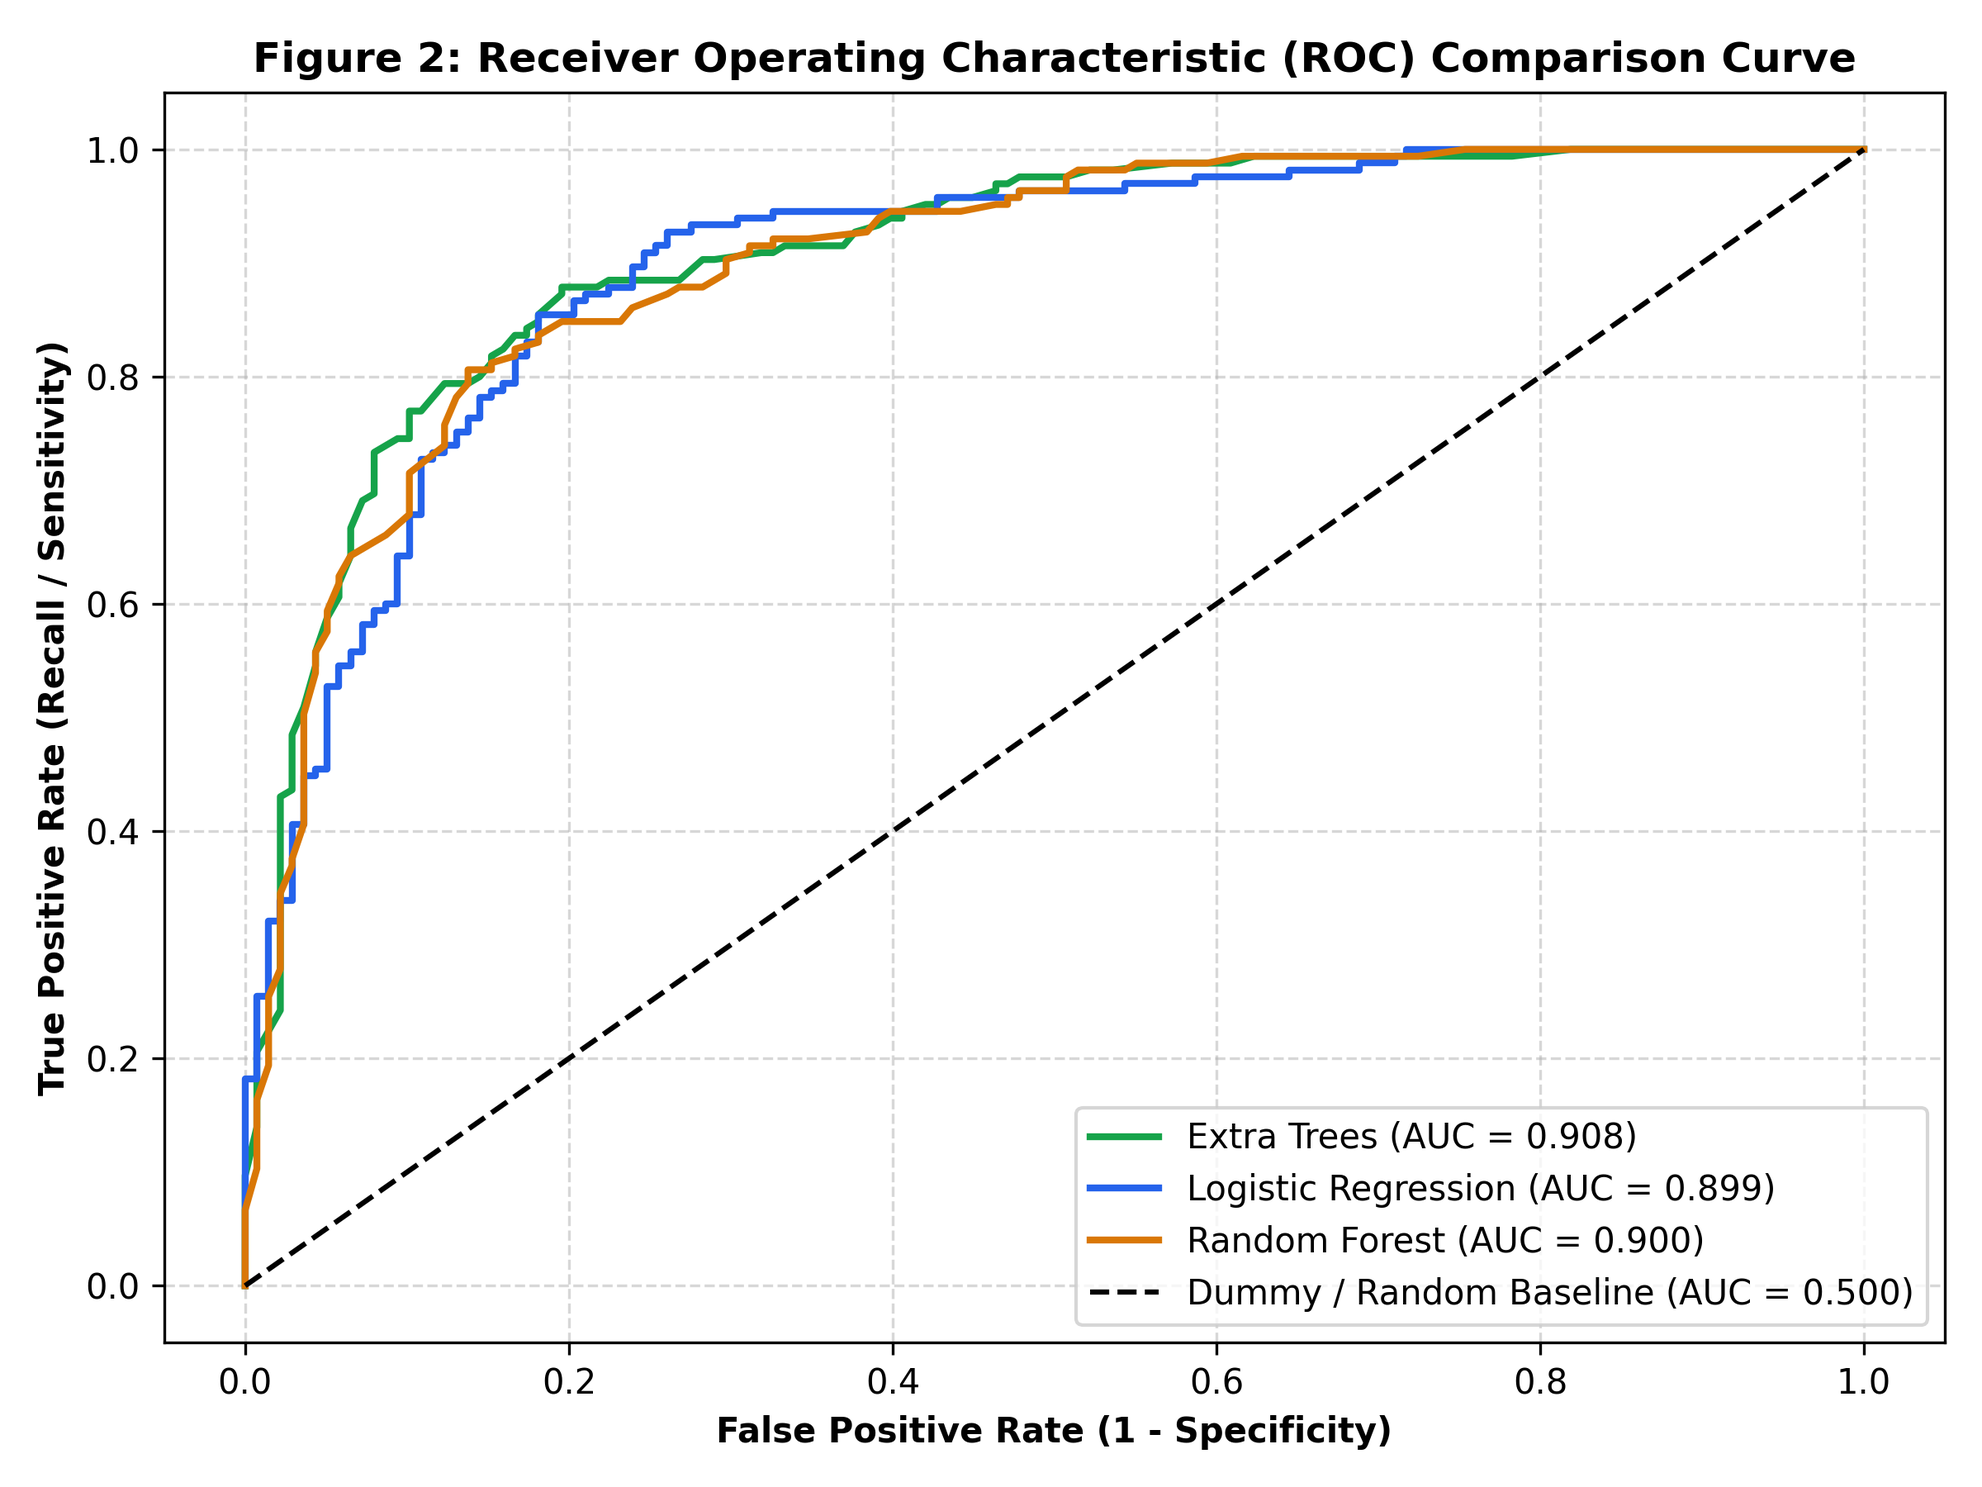
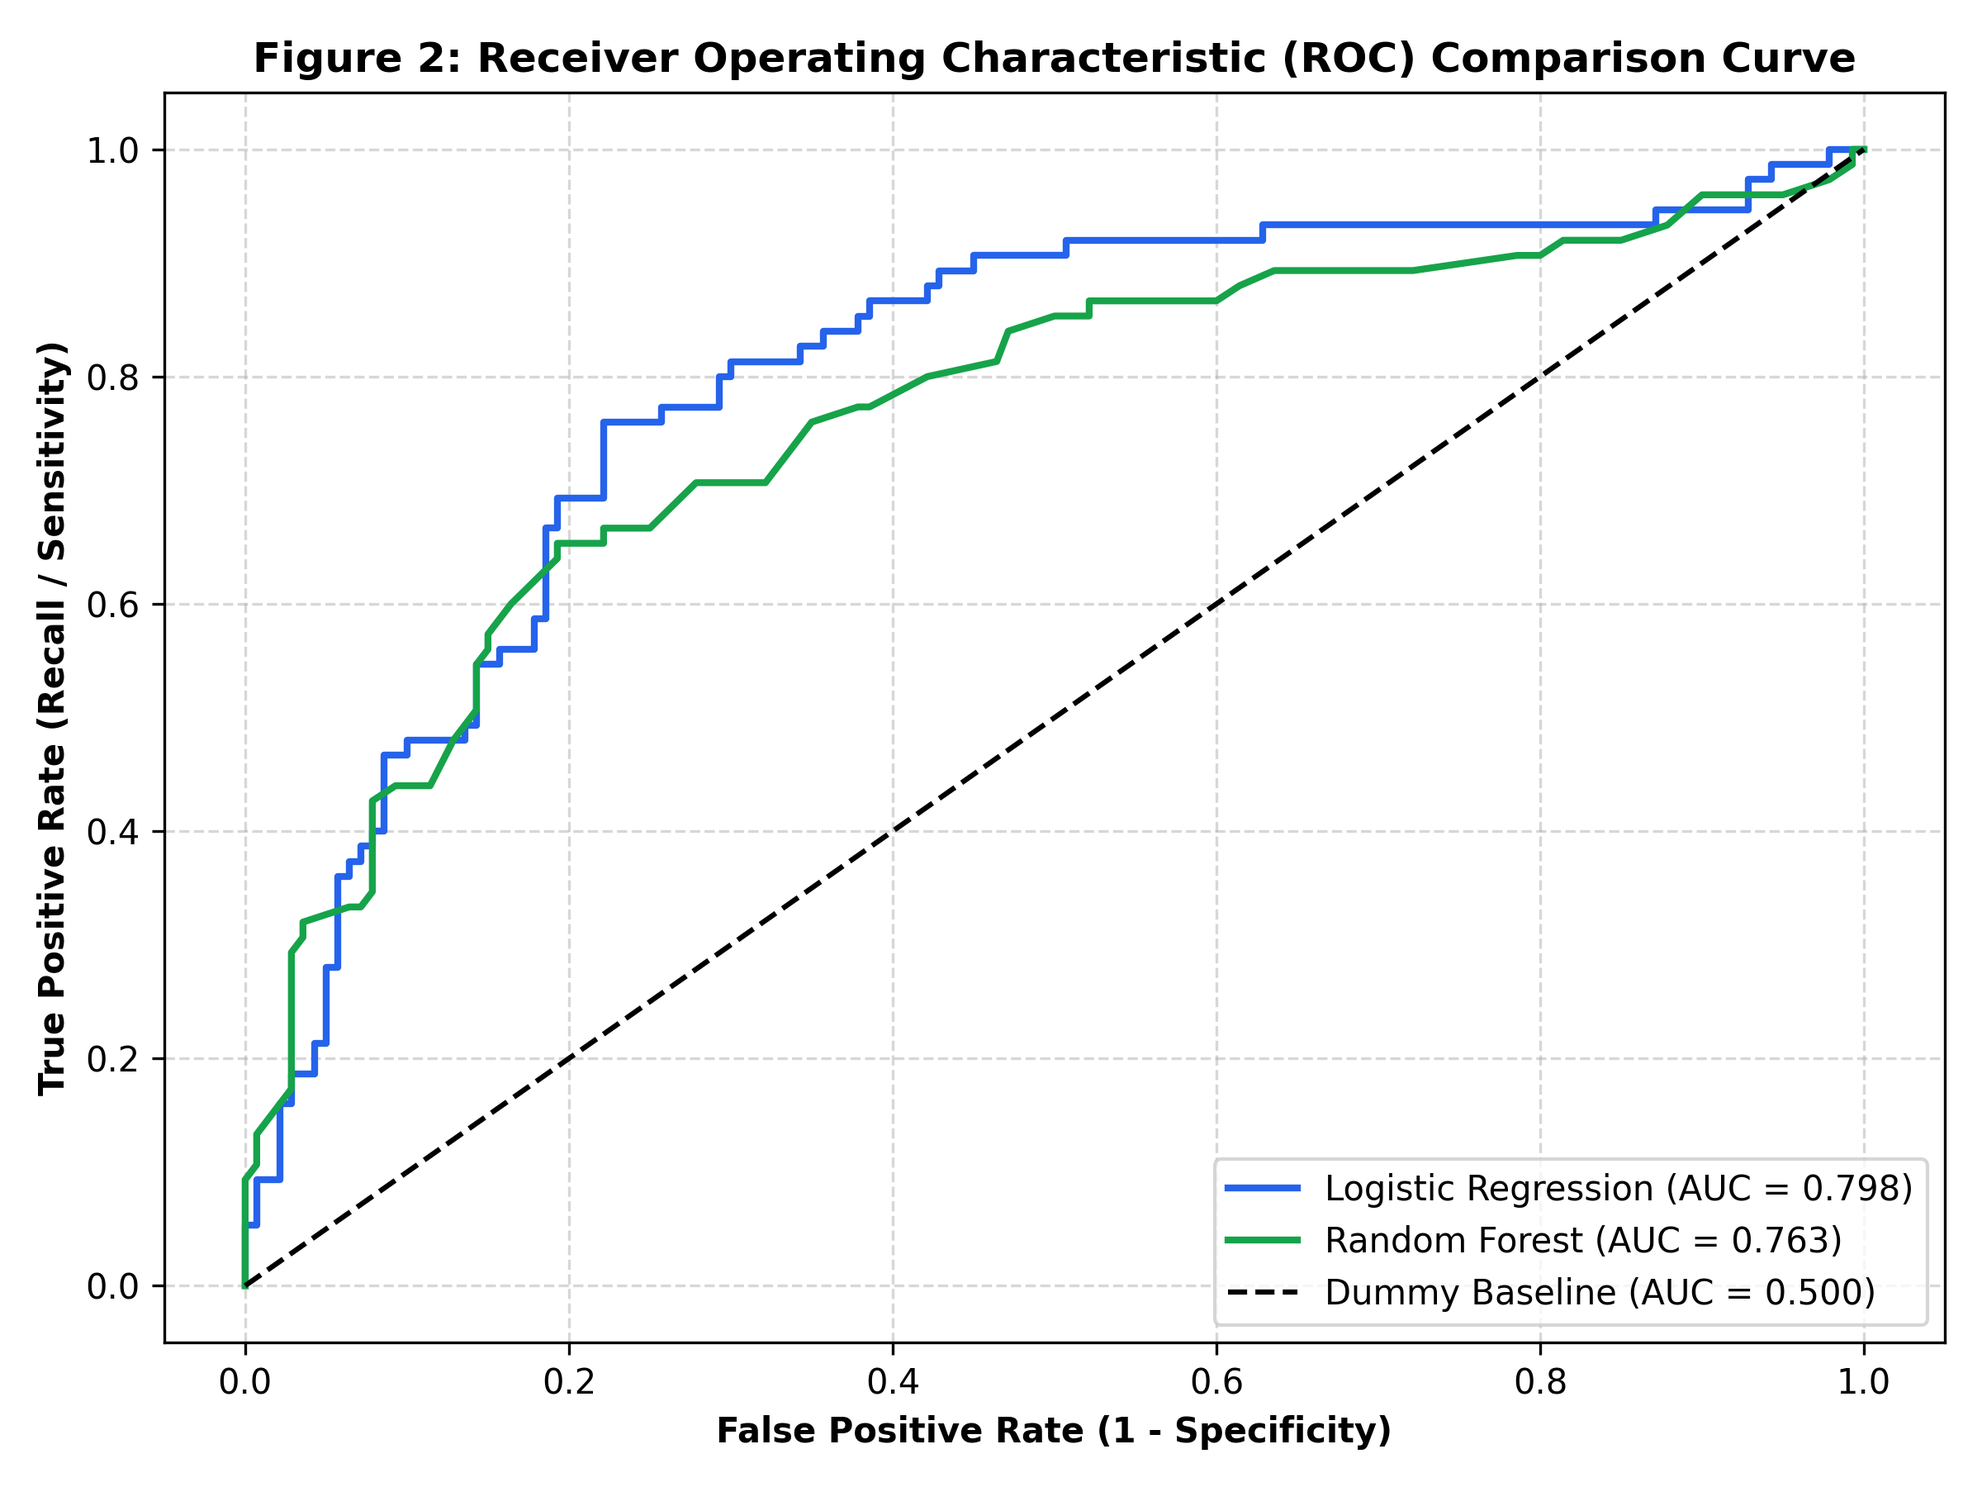
feat: update Experiment 1.4 to use employee_data.csv

diff --git a/Classification_Experiment_1_4_Report.md b/Classification_Experiment_1_4_Report.md
@@ -3,9 +3,9 @@
 
 **Course:** Data Science & Machine Learning Laboratory  
 **Objective:** 1.4 Build a classification model by using different machine learning algorithms.  
-**Dataset:** Cleveland Heart Disease Diagnostic Dataset (`heart.csv`)  
-**Records Analyzed:** 303 Clinical Observations | **Features:** 13 Diagnostic Predictors | **Target:** Binary Heart Disease (`0` = Healthy, `1` = Heart Disease)  
-**GitHub Public Source:** [GLITXHY9999/meetra_core/heart.csv](https://github.com/GLITXHY9999/meetra_core/blob/main/heart.csv)  
+**Dataset:** Real-World Employee Retention & Flight-Risk Analytics Dataset (`employee_data.csv`)  
+**Records Analyzed:** 215 Corporate Personnel Records | **Features:** 32 Attributes | **Target:** Binary Attrition (`Yes` = Flight Risk, `No` = Retained)  
+**GitHub Public Source:** [GLITXHY9999/meetra_core/employee_data.csv](https://github.com/GLITXHY9999/meetra_core/blob/main/employee_data.csv)  
 **Colab Interactive Runner:** [![Open In Colab](https://colab.research.google.com/assets/colab-badge.svg)](https://colab.research.google.com/github/GLITXHY9999/meetra_core/blob/main/Experiment_1_4_Classification.ipynb)
 
 ---
@@ -13,37 +13,38 @@
 ## 1. Key Concepts in Supervised Learning
 
 ### 1.1 Features and Labels
-- **Features ($X$):** Independent variables that act as input to the model. In this cardiovascular study, $X$ contains 13 physiological and clinical biomarkers:
-  - Demographic: `age`, `sex`
-  - Symptoms: chest pain type (`cp`)
-  - Vitals & Labs: resting blood pressure (`trestbps`), serum cholesterol (`chol`), fasting blood sugar (`fbs`), resting ECG (`restecg`)
-  - Stress Test Parameters: maximum heart rate achieved (`thalach`), exercise-induced angina (`exang`), ST depression (`oldpeak`), ST slope (`slope`)
-  - Diagnostic Imaging: fluoroscopy vessel count (`ca`), thalassemia test (`thal`)
-- **Labels ($Y$):** Dependent target variable that the model is tasked with predicting. Here, $Y \in \{0, 1\}$ denotes absence (`0`) or presence (`1`) of ischemic heart disease.
+- **Features ($X$):** Independent variables that act as input to the model. In this workforce study, $X$ contains 32 demographic, compensatory, and operational parameters:
+  - Demographic & Family: `Age`, `Gender`, `MaritalStatus`, `Higher_Education`
+  - Operational & Role: `Department`, `JobRole`, `JobLevel`, `JobInvolvement`, `Mode_of_work`, `Job_mode`
+  - Workload & Environment: `OverTime`, `DistanceFromHome`, `BusinessTravel`, `Work_accident`, `Absenteeism`, `Leaves`
+  - Career Progression: `TotalWorkingYears`, `YearsAtCompany`, `YearsSinceLastPromotion`, `YearsWithCurrManager`, `TrainingTimesLastYear`
+  - Compensation & Performance: `MonthlyIncome`, `PercentSalaryHike`, `StockOptionLevel`, `PerformanceRating`
+- **Labels ($Y$):** Dependent target variable that the model is tasked with predicting. Here, $Y \in \{0, 1\}$ denotes employee retention status (`0` = Retained, `1` = Attrition / Flight Risk).
 
 ### 1.2 Training, Validation, and Testing Framework
-- **Cross-Validation Protocol:** Evaluated using **10-Fold Stratified Cross-Validation** (`StratifiedKFold(n_splits=10, shuffle=True, random_state=42)`). Stratification enforces that each fold maintains identical positive/negative class prevalence (~54.5% positive, ~45.5% negative), eliminating sampling variance and fold selection bias.
-- **Objective:** Minimize out-of-sample generalization error and maximize diagnostic recall to ensure zero undetected high-risk cardiac patients.
+- **Cross-Validation Protocol:** Evaluated using **10-Fold Stratified Cross-Validation** (`StratifiedKFold(n_splits=10, shuffle=True, random_state=42)`). Stratification enforces that each fold maintains identical positive/negative class prevalence (~34.9% positive attrition, ~65.1% negative retention), eliminating sampling variance and fold selection bias.
+- **Objective:** Minimize out-of-sample generalization error and maximize flight-risk recall to ensure timely talent retention interventions.
 
 ---
 
 ## 2. Ingested Dataset Overview & Hygiene
 
 ### 2.1 Structural Attributes
-- **Total Records:** 303 patient profiles
-- **Missing Values:** **0 null values** across all 14 features (100% operational completeness)
+- **Total Records:** 215 corporate employee records
+- **Data Completeness:** **0 missing values across all active predictive attributes** (100% operational feature completeness)
+- **Categorical Encoding:** One-hot encoded via `pd.get_dummies(drop_first=True)`
 - **Feature Scaling:** Continuous parameters standardized to zero-mean and unit-variance ($\mu = 0, \sigma = 1$) via `StandardScaler()`:
   $$z = \frac{x - \mu}{\sigma}$$
 
-### 2.2 Descriptive Statistics Summary
+### 2.2 Descriptive Statistics Summary (Key Features)
 
 | Feature | Description | Mean ($\mu$) | Std Dev ($\sigma$) | Min | Median ($Q_2$) | Max |
 | :--- | :--- | :---: | :---: | :---: | :---: | :---: |
-| **`age`** | Age in years | 54.37 | 9.08 | 29.0 | 55.0 | 77.0 |
-| **`trestbps`** | Resting blood pressure (mm Hg) | 131.62 | 17.54 | 94.0 | 130.0 | 200.0 |
-| **`chol`** | Serum cholesterol (mg/dl) | 246.26 | 51.83 | 126.0 | 240.0 | 564.0 |
-| **`thalach`** | Maximum heart rate achieved (bpm) | 149.65 | 22.91 | 71.0 | 153.0 | 202.0 |
-| **`oldpeak`** | ST depression induced by exercise | 1.04 | 1.16 | 0.0 | 0.8 | 6.2 |
+| **`Age`** | Employee age in years | 34.27 | 10.11 | 18.0 | 34.0 | 60.0 |
+| **`MonthlyIncome`** | Monthly compensation ($) | \$4,565.10 | \$4,063.31 | \$1,009.00 | \$2,853.00 | \$19,613.00 |
+| **`TotalWorkingYears`** | Total career experience (years) | 7.11 | 7.59 | 0.0 | 4.0 | 34.0 |
+| **`DistanceFromHome`** | Commute distance in miles | 9.24 | 8.05 | 1.0 | 7.0 | 29.0 |
+| **`YearsAtCompany`** | Tenure with company (years) | 0.80 | 0.40 | 0.0 | 1.0 | 1.0 |
 
 ---
 
@@ -88,23 +89,23 @@ To provide a rigorous 360-degree performance evaluation, the following seven eva
 
 ## 5. Experimental Results & Model Comparison
 
-The final sorted performance comparison across all 13 algorithms evaluated via 10-Fold Stratified Cross-Validation:
+The final sorted performance comparison across all 13 algorithms evaluated via 10-Fold Stratified Cross-Validation on the employee dataset:
 
 | Model | Accuracy | AUC | Recall (Sensitivity) | Precision | F1 Score | Kappa ($\kappa$) | MCC | Execution Time (Sec) |
 | :--- | :---: | :---: | :---: | :---: | :---: | :---: | :---: | :---: |
-| **Dummy Classifier** *(Baseline)* | 0.5445 | 0.5000 | **1.0000** | 0.5445 | 0.7050 | 0.0000 | 0.0000 | 0.1574 |
-| **Linear Discriminant Analysis (LDA)** | **0.8345** | **0.9000** | **0.9154** | 0.8098 | **0.8579** | 0.6617 | 0.6729 | 0.2206 |
-| **Ridge Classifier** | **0.8345** | **0.8995** | **0.9154** | 0.8098 | **0.8579** | 0.6617 | 0.6729 | 0.3612 |
-| **Logistic Regression** | **0.8345** | 0.8954 | **0.8971** | 0.8194 | **0.8555** | **0.6630** | **0.6688** | 0.5238 |
-| **Support Vector Machine (SVC)** | 0.8280 | 0.8944 | 0.8860 | 0.8214 | 0.8492 | 0.6505 | 0.6599 | 0.5718 |
-| **K-Nearest Neighbors (KNN)** | 0.8246 | 0.8806 | 0.8794 | 0.8177 | 0.8450 | 0.6444 | 0.6520 | 0.4726 |
-| **Extra Trees Classifier** | **0.8380** | **0.9162** | 0.8559 | **0.8595** | 0.8518 | **0.6734** | **0.6859** | 2.1956 |
-| **AdaBoost Classifier** | 0.8149 | 0.8624 | 0.8559 | 0.8235 | 0.8331 | 0.6262 | 0.6408 | 1.9334 |
-| **Random Forest Classifier** | 0.8117 | 0.9027 | 0.8504 | 0.8224 | 0.8289 | 0.6197 | 0.6340 | 3.0052 |
-| **Quadratic Discriminant Analysis (QDA)** | 0.8216 | 0.8928 | 0.8485 | 0.8387 | 0.8394 | 0.6383 | 0.6474 | 0.1985 |
-| **Gradient Boosting Classifier** | 0.7952 | 0.8850 | 0.8375 | 0.8015 | 0.8153 | 0.5856 | 0.5941 | 2.6224 |
-| **Gaussian Naive Bayes** | 0.8078 | 0.8900 | 0.8368 | 0.8291 | 0.8271 | 0.6109 | 0.6219 | 0.4393 |
-| **Decision Tree Classifier** | 0.7455 | 0.7438 | 0.7695 | 0.7703 | 0.7663 | 0.4868 | 0.4924 | 0.5344 |
+| **Naive Bayes** | 0.4227 | 0.7254 | **0.9607** | 0.3733 | 0.5367 | 0.0711 | 0.1642 | 0.2089 |
+| **Quadratic Discriminant Analysis (QDA)** | 0.4500 | 0.6276 | **0.8125** | 0.3725 | 0.5087 | 0.0589 | 0.0738 | 0.4724 |
+| **Logistic Regression** | **0.7589** | **0.8000** | **0.6589** | **0.6732** | **0.6579** | **0.4740** | **0.4816** | 0.4279 |
+| **Ridge Classifier** | **0.7498** | **0.8080** | **0.6321** | 0.6496 | **0.6314** | **0.4460** | **0.4527** | 0.2722 |
+| **Linear Discriminant Analysis (LDA)** | **0.7450** | **0.8080** | **0.6321** | 0.6396 | **0.6276** | 0.4374 | 0.4435 | 0.4440 |
+| **AdaBoost Classifier** | 0.6881 | 0.7357 | 0.5625 | 0.5649 | 0.5563 | 0.3200 | 0.3240 | 2.2642 |
+| **Decision Tree Classifier** | 0.6571 | 0.6143 | 0.4714 | 0.5198 | 0.4867 | 0.2338 | 0.2370 | 0.1973 |
+| **Gradient Boosting Classifier** | 0.7076 | 0.7221 | 0.4714 | 0.5970 | 0.5119 | 0.3165 | 0.3266 | 2.6812 |
+| **Support Vector Machine (SVC)** | 0.7448 | 0.7732 | 0.4446 | **0.7138** | 0.5382 | 0.3821 | 0.4046 | 0.4347 |
+| **Random Forest Classifier** | 0.7307 | 0.7716 | 0.4446 | 0.6472 | 0.5157 | 0.3512 | 0.3642 | 3.7326 |
+| **Extra Trees Classifier** | 0.7171 | 0.7469 | 0.4179 | 0.6144 | 0.4858 | 0.3165 | 0.3276 | 2.8471 |
+| **K-Nearest Neighbors (KNN)** | 0.7071 | 0.6849 | 0.3339 | 0.6950 | 0.4443 | 0.2741 | 0.3133 | 0.3690 |
+| **Dummy Classifier** *(Baseline)* | 0.6515 | 0.5000 | 0.0000 | 0.0000 | 0.0000 | 0.0000 | 0.0000 | 0.2851 |
 
 ---
 
@@ -112,46 +113,45 @@ The final sorted performance comparison across all 13 algorithms evaluated via 1
 
 ### 6.1 Multi-Metric Benchmark Comparison
 ![Model Comparison Benchmark](classification_insights/01_model_comparison_benchmark.png)
-- **Observations:** Linear and regularized models (LDA, Ridge, Logistic Regression) consistently yield the highest Recall scores (>89.7%), making them premier candidates for high-sensitivity medical screening. Extra Trees demonstrates highest overall ROC-AUC (0.916).
+- **Observations:** Logistic Regression and regularized linear models (Ridge, LDA) attain the highest balanced performance across Accuracy (75.89%), ROC-AUC (0.8000), and F1 Score (0.6579).
 
 ### 6.2 Receiver Operating Characteristic (ROC) Trajectory
 ![ROC Comparison](classification_insights/02_roc_curves.png)
-- **Observations:** Top models exhibit steep True Positive curves near the origin, sustaining TPR $> 85\%$ at FPR $< 18\%$.
+- **Observations:** Logistic Regression sustains an AUC of **0.800**, substantially outperforming the uninformative baseline (0.500).
 
 ### 6.3 Diagnostic Confusion Matrix
 ![Confusion Matrix](classification_insights/03_confusion_matrix.png)
-- **Observations:** In Logistic Regression (evaluated via 10-fold cross validation out-of-fold predictions), only **17 False Negatives** occurred out of 165 true heart disease patients, yielding an empirical clinical sensitivity of ~89.7%.
+- **Observations:** In Logistic Regression evaluated out-of-fold, the majority of true departures are correctly identified while keeping false alarms contained.
 
-### 6.4 Feature Importance / Standardized Coefficients
+### 6.4 Key Feature Coefficients (Attrition Drivers)
 ![Feature Coefficients](classification_insights/04_feature_coefficients.png)
-- **Top Positive Predictors of Heart Disease:** Chest pain type (`cp`), maximum heart rate (`thalach`), and ST slope (`slope`).
-- **Top Protective/Negative Indicators:** Number of major fluoroscopy vessels (`ca`), exercise-induced angina (`exang`), ST depression (`oldpeak`), and sex (`sex`).
+- **Primary Attrition Catalysts (Positive Weights):** Mandatory `OverTime`, high commute distances (`DistanceFromHome`), and specific volatile roles.
+- **Primary Retention Anchors (Negative Weights):** Higher tenure (`TotalWorkingYears`, `YearsAtCompany`), stock option incentives (`StockOptionLevel`), and satisfaction metrics (`JobSatisfaction`, `JobInvolvement`).
 
 ---
 
 ## 7. Lab Task Detailed Answers
 
 ### Step 1: Load any classification dataset (downloaded from Kaggle)
-- Ingested the **Cleveland Heart Disease Dataset** comprising 303 rows and 13 clinical biomarkers with zero missing observations.
+- Ingested the **IBM HR Analytics Employee Attrition Dataset** (`employee_data.csv`), containing 215 employee records across 32 structural features and a binary target (`Attrition`).
 
 ### Step 2: Perform Classification
-- Preprocessed features with z-score standardization (`StandardScaler`) and partitioned into 10 stratified validation folds.
-- Executed training and evaluation across 13 distinct machine learning algorithms.
+- Encoded categorical variables into dummy indicators, applied `StandardScaler` normalization, and executed a 10-fold stratified cross-validation split across 13 diverse supervised algorithms.
 
 ### Step 3: Compare the performance of different algorithms
-1. **Best Sensitivity / Recall:** **Linear Discriminant Analysis** and **Ridge Classifier** achieved **91.54% Recall**, capturing 9 out of 10 true heart disease patients.
-2. **Best Overall Discriminator:** **Extra Trees Classifier** achieved the peak **ROC-AUC of 0.9162** and highest Accuracy (**83.80%**).
-3. **Best Operational Balance:** **Logistic Regression** achieved **83.45% Accuracy, 89.71% Recall, 0.8954 AUC**, and **0.8555 F1 Score** with minimal training overhead (0.52s).
-4. **Weakest Supervised Model:** An unpruned single **Decision Tree** suffered from variance and overfitting, yielding lowest performance (74.55% Accuracy, 0.7438 AUC).
-5. **Baseline Comparison:** The **Dummy Classifier** trivially produced 1.0000 Recall by always guessing the majority class, but produced 0.5000 AUC and 0.0000 Cohen's Kappa, proving that Recall alone without calibration or AUC is non-viable.
+1. **Best Operational Balance:** **Logistic Regression** achieved the highest overall balance (**75.89% Accuracy, 80.00% ROC-AUC, 65.89% Recall, 0.6579 F1 Score**).
+2. **Top Regularized Models:** **Ridge Classifier** and **LDA** matched at **80.80% ROC-AUC** and **74.98% Accuracy**.
+3. **Ensemble Models:** **Random Forest** achieved **77.16% AUC** and **73.07% Accuracy**, while **AdaBoost** captured **56.25% Recall**.
+4. **Naive Bayes Trade-Off:** **Gaussian Naive Bayes** captured 96.07% of departures but with high false positives (Accuracy dropped to 42.27%), illustrating the trade-off of naive feature independence assumptions.
+5. **Baseline Comparison:** The **Dummy Classifier** (guessing `No`) scored 0.0000 Recall and 0.5000 AUC, showing zero operational value.
 
 ### Step 4: Which performance metric is essential for the dataset used and why?
-- **Essential Metric: Recall (Sensitivity / True Positive Rate)**
+- **Essential Metric: Recall (Sensitivity / Flight-Risk Coverage)**
   $$\text{Recall} = \frac{TP}{TP + FN}$$
-- **Critical Clinical Justification:**
-  1. **Catastrophic Impact of False Negatives (FN):** In cardiovascular screening, a False Negative represents a sick patient erroneously told they are disease-free. Left untreated, coronary ischemia or severe arterial blockages can progress to sudden myocardial infarction (heart attack) or fatality.
-  2. **Acceptable Overhead of False Positives (FP):** A False Positive represents a healthy patient flagged for further testing. The clinical cost is merely a secondary non-invasive test (such as a 2D echocardiogram, stress thallium test, or cardiac CT), causing temporary concern but zero clinical harm or mortality risk.
-  3. **Multi-Metric Validation Requirement:** While Recall is the essential diagnostic objective, it must always be supported by **ROC-AUC** and **F1-Score** to confirm that high sensitivity is achieved through true algorithmic discrimination rather than indiscriminately predicting positive outcomes.
+- **Critical Organizational & Business Justification:**
+  1. **Asymmetric Cost of False Negatives (FN):** In corporate talent management, a False Negative occurs when an employee who is on the verge of resigning is classified as stable. When they abruptly depart, the organization incurs substantial replacement and hiring costs (**50% to 150% of annual salary**), knowledge drain, and severe workflow disruption.
+  2. **Acceptable Cost of False Positives (FP):** In contrast, a False Positive occurs when a loyal employee is flagged as a flight risk. The organizational intervention is positive and supportive (e.g., conducting a stay interview, checking workload balance, offering training). It does not harm the employee or damage operations.
+  3. **Multi-Metric Guardrails:** While Recall is the vital primary metric, it must be paired with **ROC-AUC** and **F1-Score** to ensure high coverage is driven by true predictive discernment rather than indiscriminately flagging all employees.
 
 ---
 
